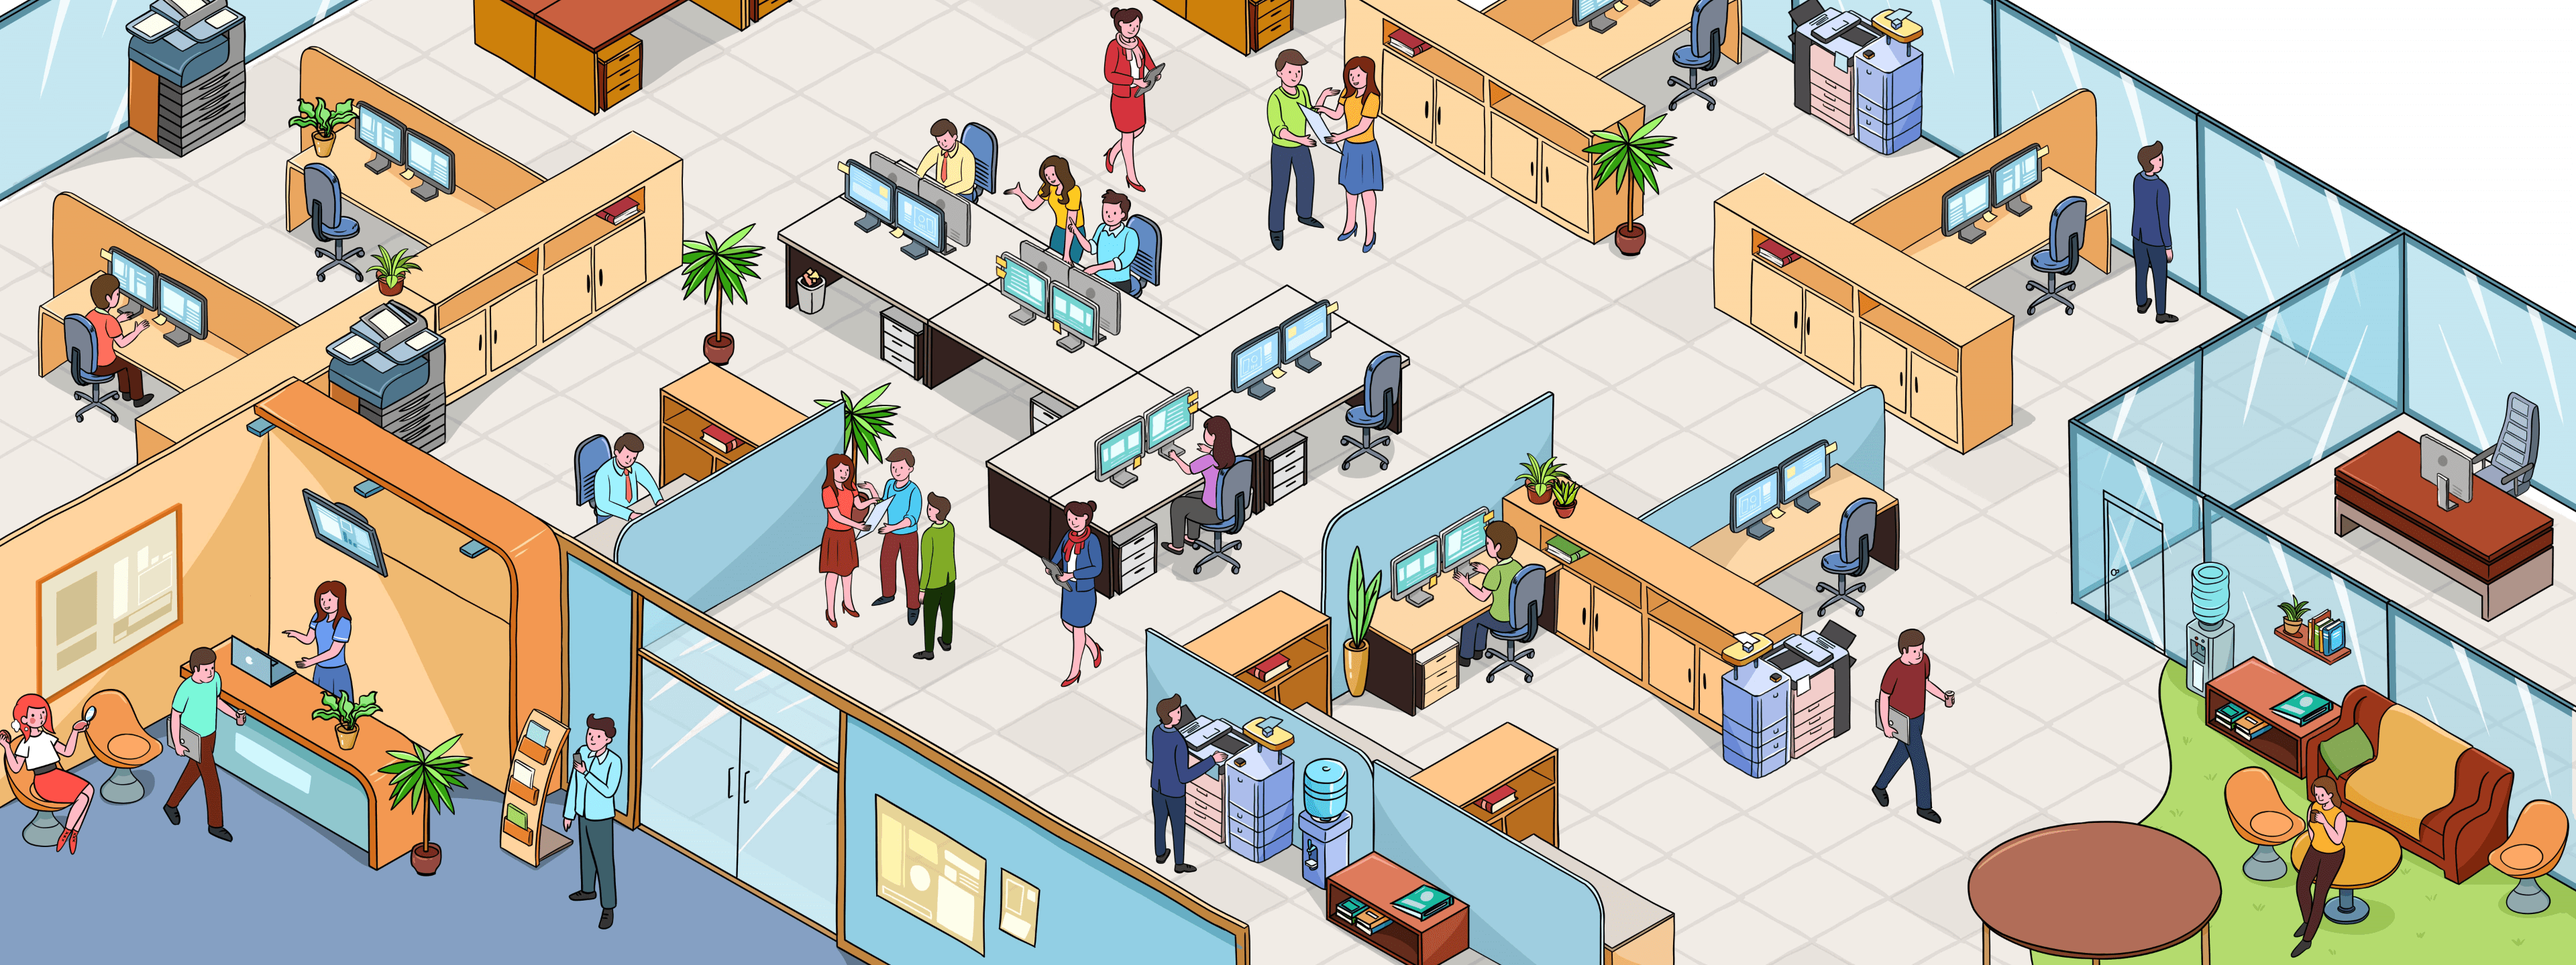
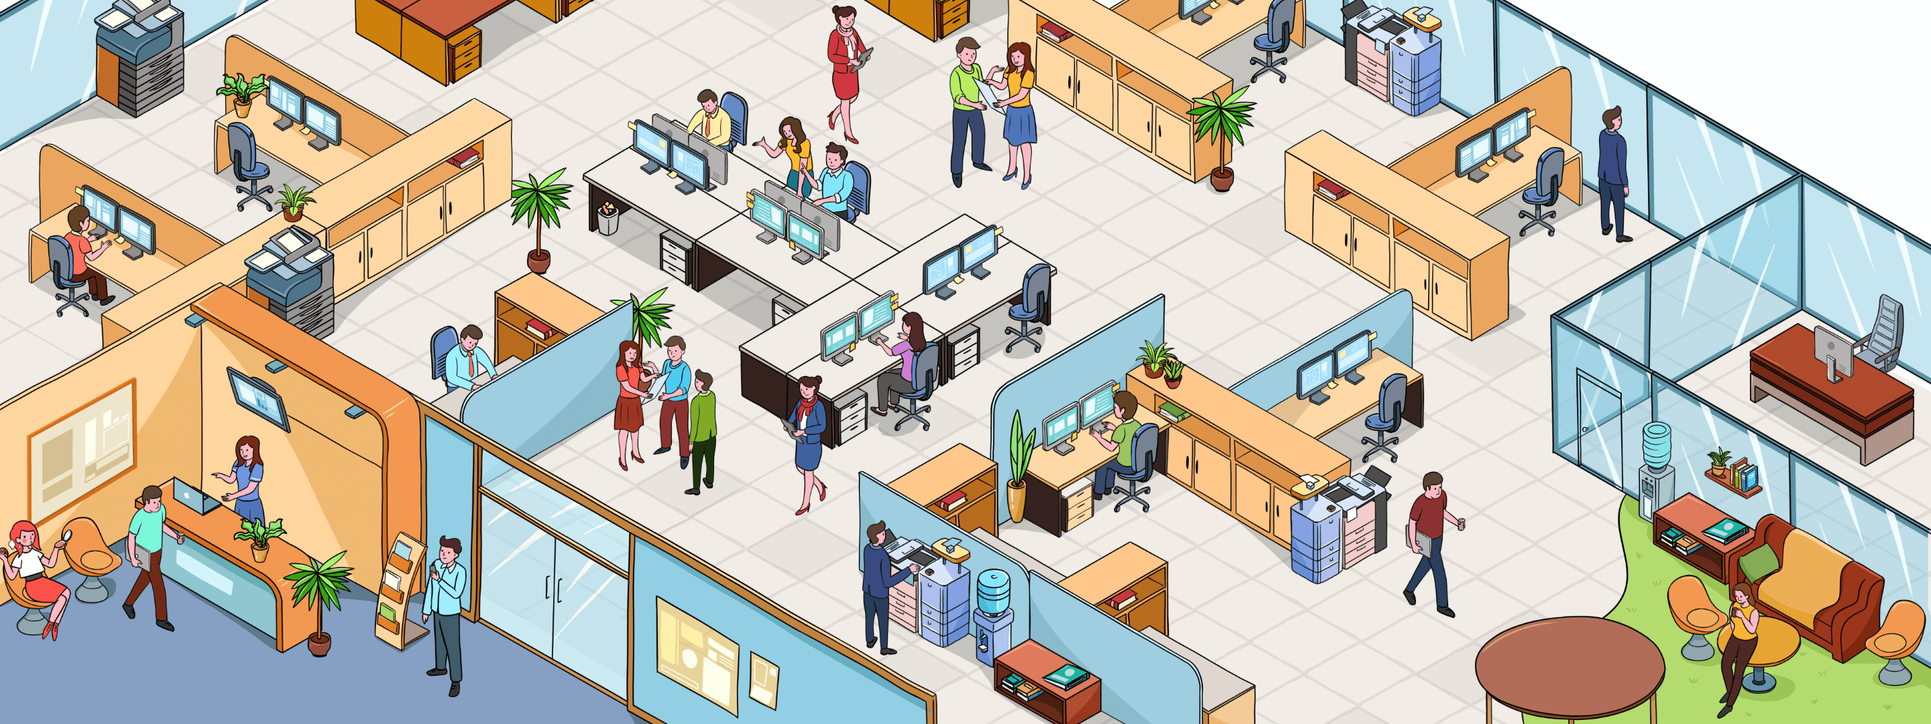
update 05062020

Changed region(s): [[0.9062, 0.7639, 0.9688, 0.825]]

diff --git a/game-boc-phot-cong-so/css/mainstyle.css b/game-boc-phot-cong-so/css/mainstyle.css
@@ -475,7 +475,7 @@ area:-webkit-any-link {
   height: 100vh;
   max-width: 30vw;
   width: 400px;
-  padding: 50px 0;
+  padding: 30px 0;
   -ms-flex-line-pack: start;
       align-content: flex-start;
   -webkit-box-pack: center;
@@ -511,7 +511,7 @@ area:-webkit-any-link {
 }
 
 #section-2 #result-wrapper .result-group ul li {
-  padding: 20px;
+  padding: 15px 20px;
   background: #ebebeb;
   border-radius: 20px 20px 20px 0;
   margin: 0 0 20px 0;
@@ -726,6 +726,7 @@ area:-webkit-any-link {
   #section-1 #section-content-2 .section-content .section-content-image {
     width: 85vw;
     max-width: 700px;
+    margin: 0 auto;
   }
   #section-1 #section-content-2 .section-content .section-content-image img {
     width: 100%;
@@ -773,11 +774,20 @@ area:-webkit-any-link {
   #section-2 #result-wrapper {
     width: 100vw;
     max-width: unset;
+    padding: 20px 0;
+    height: 60vh;
+    top: unset;
+    bottom: 0;
+    -webkit-transform: translateY(50vh);
+            transform: translateY(50vh);
+    -webkit-transition: all 0.5s;
+    transition: all 0.5s;
   }
   #section-2 #result-wrapper h3 {
     font-size: 25px;
   }
   #section-2 #result-wrapper .result-img {
+    display: none;
     width: 200px;
     height: 200px;
     margin: 30px 0;
@@ -785,6 +795,12 @@ area:-webkit-any-link {
   #section-2 #result-wrapper .result-group {
     width: 90%;
     margin-right: 0;
+  }
+  #section-2 #result-wrapper.collapse {
+    -webkit-transform: translateY(0);
+            transform: translateY(0);
+    -webkit-transition: all 0.5s;
+    transition: all 0.5s;
   }
   #section-2 #result-container #result-form {
     max-height: 500px;
@@ -813,19 +829,26 @@ area:-webkit-any-link {
     position: static;
     text-align: center;
     margin: 20px 0;
-    padding: 0 15px;
+    padding: 0px 15px;
   }
-  #section-2 #result-container #result-form #form-submit {
+  #section-2 #result-container #result-form .result-form-content h3 {
+    font-size: 25px;
+  }
+  #section-2 #result-container #result-form #form-frame5-submit {
     position: static;
     -webkit-transform: none;
             transform: none;
     padding: 0 15px;
   }
   #section-2 #result-container .btnclose {
-    -webkit-transform: translateY(-50%) scale(0.7);
-            transform: translateY(-50%) scale(0.7);
+    -webkit-transform: translateY(-50%) scale(0.6);
+            transform: translateY(-50%) scale(0.6);
     top: calc(50% - 240px);
+    right: 0;
     z-index: 21;
+  }
+  #section-2 #myPanoramix {
+    width: 100%;
   }
 }
 /*# sourceMappingURL=mainstyle.css.map */

diff --git a/game-boc-phot-cong-so/css/mainstyle.scss b/game-boc-phot-cong-so/css/mainstyle.scss
@@ -387,7 +387,8 @@ area:-webkit-any-link {
     max-width: 30vw;
     width: 400px;
     @extend %d-flex;
-    padding: 50px 0;
+    // padding: 50px 0;
+    padding: 30px 0;
     //align-items: center;
     align-content: flex-start;
     justify-content: center;
@@ -418,7 +419,7 @@ area:-webkit-any-link {
         margin: 0 30px;
 
         li {
-          padding: 20px;
+          padding: 15px 20px;
           background: #ebebeb;
           border-radius: 20px 20px 20px 0;
           margin: 0 0 20px 0;
@@ -677,6 +678,7 @@ area:-webkit-any-link {
         .section-content-image {
           width: 85vw;
           max-width: 700px;
+          margin: 0 auto;
 
           img {
             width: 100%;
@@ -744,11 +746,18 @@ area:-webkit-any-link {
     #result-wrapper {
       width: 100vw;
       max-width: unset;
+      padding: 20px 0;
+      height: 60vh;
+      top: unset;
+      bottom: 0;
+      transform: translateY(50vh);
+      transition: all 0.5s;
 
       h3 {
         font-size: 25px;
       }
       .result-img {
+        display: none;
         width: 200px;
         height: 200px;
         margin: 30px 0;
@@ -756,6 +765,11 @@ area:-webkit-any-link {
       .result-group {
         width: 90%;
         margin-right: 0;
+      }
+
+      &.collapse {
+        transform: translateY(0);
+        transition: all 0.5s;
       }
     }
     #result-container {
@@ -778,19 +792,27 @@ area:-webkit-any-link {
           position: static;
           text-align: center;
           margin: 20px 0;
-          padding: 0 15px;
+          padding: 0px 15px;
+
+          h3 {
+            font-size: 25px;
+          }
         }
-        #form-submit {
+        #form-frame5-submit {
           position: static;
           transform: none;
           padding: 0 15px;
         }
       }
       .btnclose {
-        transform: translateY(-50%) scale(0.7);
+        transform: translateY(-50%) scale(0.6);
         top: calc(50% - 240px);
+        right: 0;
         z-index: 21;
       }
+    }
+    #myPanoramix {
+      width: 100%;
     }
   }
 }

diff --git a/game-boc-phot-cong-so/frame/frame-3.php b/game-boc-phot-cong-so/frame/frame-3.php
@@ -7,7 +7,7 @@
     <map name="Map" id="Map">
         <area class="noSelect" alt="123" title="man1" data-content="Ăn kem trong giờ làm việc nè." data-url="rs-1.jpg" coords="1501,193,1745,461" shape="rect" onclick="loadFrame5(this)">
         <area class="noSelect" alt="ABC" title="man2" data-url="rs-2.jpg" coords="1162,623,1474,1006" shape="rect" onclick="loadFrame4(this)">
-        <area class="noSelect" alt="ABC" title="man3" data-url="rs-3.jpg" coords="799,1023,982,1403" shape="rect" onclick="loadFrame4(this)">
+        <area class="noSelect" alt="ABC" title="man3" data-url="rs-3.jpg" coords="2,993,165,1267" shape="rect" onclick="loadFrame4(this)">
     </map>
     <div id="tutorial-wrapper">
         <!-- <button type="button" class="btnclose" onclick="closeTutorial()">

diff --git a/game-boc-phot-cong-so/index.php b/game-boc-phot-cong-so/index.php
@@ -39,6 +39,7 @@
                 }
                
             });
+            
         });
         var url_img_global = "";
         var content_global = "";
@@ -261,5 +262,17 @@
         $(this).toggleClass('disabled');
         $("#audiogame").prop('muted', !$("#audiogame").prop('muted'));
     });
+</script>
+<script>
+        var windowWidth = $(window).width();
+        if(windowWidth < 768){
+ 
+            $( "div#result-wrapper" ).bind( "tap", tapHandler );
+            
+            function tapHandler( event ){
+                $( event.target ).toggleClass( "collapse" );
+            }
+
+        };
 </script>
 </html>

diff --git a/game-boc-phot-cong-so/detail.php b/game-boc-phot-cong-so/detail.php
@@ -88,10 +88,10 @@ $actual_link = ( isset( $_SERVER['HTTPS'] ) && $_SERVER['HTTPS'] === 'on' ? "htt
 <script>
     function continueBtn() {
         document.getElementById('btnsound').play();
+        // loadFrame3();
     }
 
     html2canvas(document.getElementById('img2download')).then(function (canvas) {
-        // document.body.appendChild(canvas);
         var image = canvas.toDataURL("image/png");
         $('#btn-download').attr('href',image);
     });
